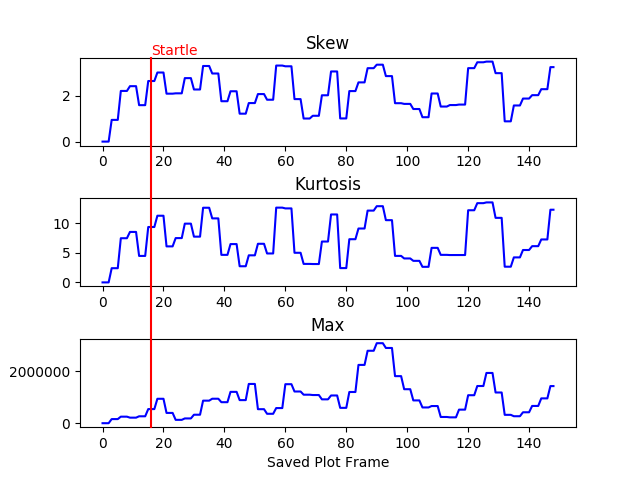
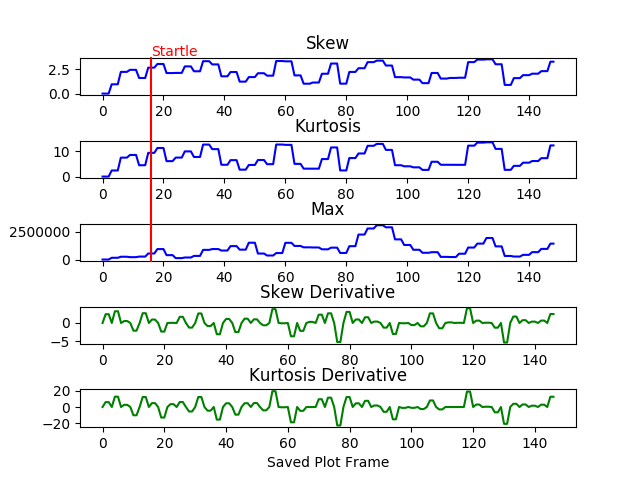
added 1st order derivative to all the videos

diff --git a/NewHogBased/scratch.py b/NewHogBased/scratch.py
@@ -127,12 +127,19 @@ def plot_histogram(frameCount, savedPlotCount, frameHist, myRange, numBins, save
 
         savedPlotCount += 1
 
-        if save is True:
+        if saveToFolder is True:
             print('saved figure', savedPlotCount)
 
         frameCount = 0
 
     return frameCount, savedPlotCount
+
+
+def get_first_derivative(array, fps):
+    # get symmetric first derivative of array
+    step_size = 3 * float(1 / fps)
+    derivative = [((array[i+1] - array[i-1]) / (2 * step_size)) for i in range(1, len(array)-1)]
+    return derivative
 
 # -----------------------------------PARAMETERS-----------------------------------------------
 
@@ -179,7 +186,7 @@ def main(videoTitle, startleFrame, extraStartle, tracked_region_list, saveToFold
     plt.figure("main figure")
     hist_layout = plt.GridSpec(2, 2)
 
-
+    fps = 15
 
     # -----------------------------------DERIVED VARIABLES---------------------------------------
     videoString = ''.join(('/home/tabitha/Desktop/automatic-detection-of-fish-behaviour/good_vids/sablefish/', videoTitle,
@@ -345,31 +352,45 @@ def main(videoTitle, startleFrame, extraStartle, tracked_region_list, saveToFold
 
     # plot the histogram metrics
     plt.figure("data")
-    plt.subplot(3, 1, 1, zorder=1)
-    s1 = plt.axvline(x=startleFrame, ymin=-3.2, ymax=1, label='startle', c='red', zorder=20, clip_on=False)
+    plt.subplot(5, 1, 1, zorder=1)
+    s1 = plt.axvline(x=startleFrame, ymin=-4.4, ymax=1, label='startle', c='red', zorder=20, clip_on=False)
     plt.text(startleFrame, max(skew_list) + 0.3, "Startle", color='red')
     if extraStartle:
-        s2 = plt.axvline(x=extraStartle, ymin=-3.2, ymax=1, label='startle', c='red', zorder=20, clip_on=False)
+        s2 = plt.axvline(x=extraStartle, ymin=-4.4, ymax=1, label='startle', c='red', zorder=20, clip_on=False)
         plt.text(extraStartle, max(skew_list) + 0.3, "Startle", color='red')
 
     # print('savedplotcount: ', savedPlotCount, 'hist_skew count: ', len(skew_list))
     plt.title('Skew')
     p1 = plt.plot(range(len(skew_list)), skew_list, c='blue', zorder=2)
-    plt.subplot(3, 1, 2, zorder=-1)
+
+    plt.subplot(5, 1, 4, zorder=-1)
+    plt.title('Skew Derivative')
+    d1 = get_first_derivative(skew_list, fps)
+    plt.plot(range(len(d1)), d1, c='green', zorder=2)
+
+    plt.subplot(5, 1, 2, zorder=-1)
     plt.title('Kurtosis')
     p2 = plt.plot(range(len(kurtosis_list)), kurtosis_list, c='blue', zorder=2)
-    plt.subplot(3, 1, 3, zorder=-1)
+
+    plt.subplot(5, 1, 5, zorder=-1)
+    plt.title('Kurtosis Derivative')
+    d2 = get_first_derivative(kurtosis_list, fps)
+    plt.plot(range(len(d2)), d2, c='green', zorder=2)
+    plt.xlabel('Saved Plot Frame')
+
+    plt.subplot(5, 1, 3, zorder=-1)
     plt.title('Max')
     p3 = plt.plot(range(len(max_list)), max_list, c='blue', zorder=2)
 
+    # first derivative of the funtions
 
     #plt.subplot(3, 1, 4, zorder=-1)
     #plt.title('Kurtosis / Skew')
     #test = [float(ai)/float(bi) for ai, bi in zip(kurtosis_list, skew_list)]
     #p3 = plt.plot(range(len(max_list)), test, c='blue', zorder=2)
 
-    plt.xlabel('Saved Plot Frame')
-    plt.subplots_adjust(hspace=0.6)
+
+    plt.subplots_adjust(hspace=1.2)
     plt.tight_layout()
 
     if saveData is True:
